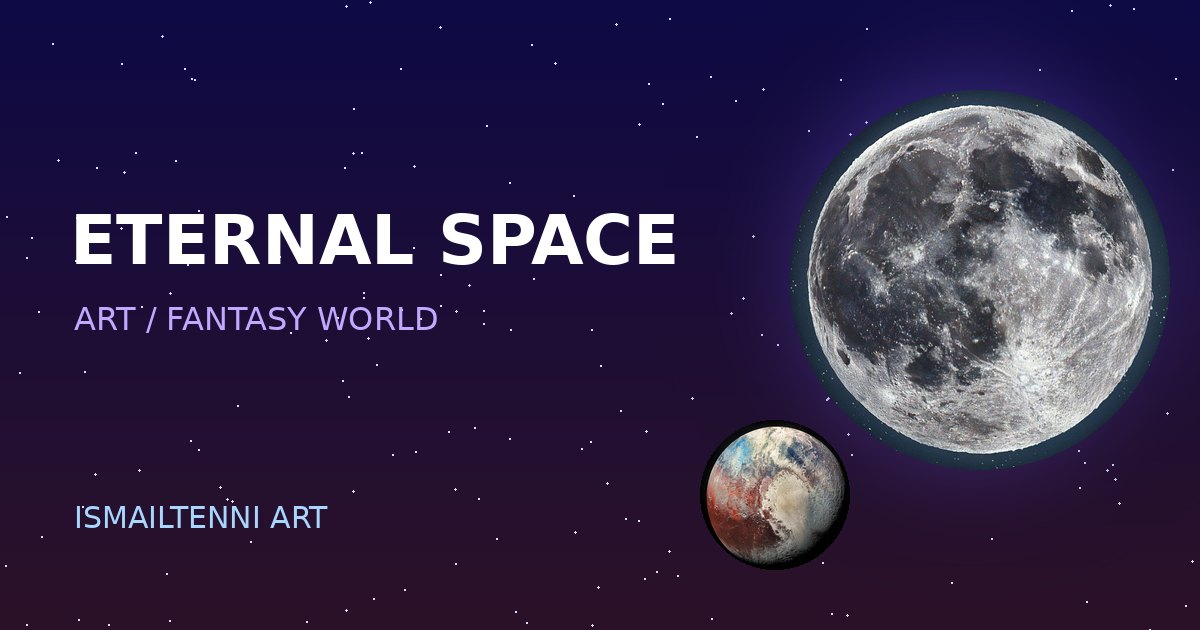
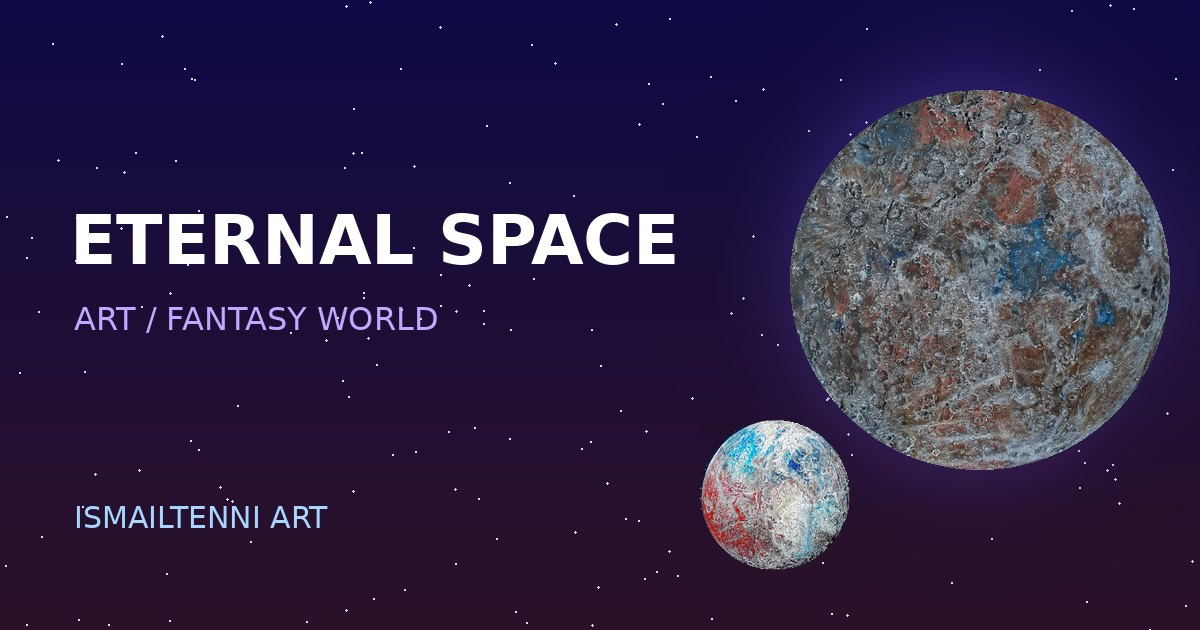
Add files via upload

Changed region(s): [[0.6475, 0.1206, 0.9867, 0.754], [0.5858, 0.6635, 0.7092, 0.9048]]

diff --git a/ARTSITE/public/index.html b/ARTSITE/public/index.html
@@ -44,6 +44,8 @@ a:hover{color:#ffffff}
 
 
 /* more4 */
+@keyframes moonDrift{from{transform:translate(-3%,-2%) rotate(-5deg)}to{transform:translate(3%,2%) rotate(5deg)}}@keyframes glowPulse{from{box-shadow:0 0 60px rgba(110,140,255,.42),0 0 150px rgba(150,70,255,.28)}to{box-shadow:0 0 90px rgba(120,160,255,.7),0 0 210px rgba(160,80,255,.5)}}
+@media (max-width:480px){#top h1{font-size:clamp(26px,8.2vw,34px)!important;letter-spacing:.09em!important;white-space:nowrap}}
 @media (pointer:coarse){header nav a,footer a,#lang button{padding-block:12px}#lang button{min-width:40px}header nav a,footer a{display:inline-block}}
 a:focus-visible,button:focus-visible,input:focus-visible,select:focus-visible,textarea:focus-visible{outline:2px solid #a8d6ff;outline-offset:3px}
 
@@ -286,14 +288,14 @@ header nav>a:not([style]):hover::after{transform:scaleX(1)}
 <div class="mv" style="position: absolute; top: 3900px; left: -150px; animation: rockA 35s linear -22s infinite"><img class="mv" src="assets/a6109552bb8845f49489881939289756.webp" alt="" style="display: block; width: 100px; height: auto; filter: drop-shadow(0 0 14px rgba(140,150,255,0.45)); animation: spin 50s linear infinite"></div>
 
 
-<div class="mv" style="position: absolute; top: 130px; right: clamp(-60px, 3vw, 70px); width: clamp(170px, 27vw, 420px); aspect-ratio: 1 / 1; border-radius: 50%; box-shadow: 0 0 70px rgba(110,140,255,0.5), 0 0 170px rgba(150,70,255,0.35); animation: floatY 9s ease-in-out infinite alternate">
-<div style="width: 100%; height: 100%; border-radius: 50%; overflow: hidden; isolation: isolate; transform: translateZ(0); background: #000">
-<img class="mv" src="assets/d97c2e76c1883fa920ea01d73709d95e.jpg" alt="Moon" style="display: block; width: 111%; height: 111%; margin: -5.5%; object-fit: cover; animation: spin 40s linear infinite">
-<div style="position: absolute; top: 0; left: 0; width: 100%; height: 100%; border-radius: 50%; background: radial-gradient(circle at 30% 28%, rgba(255,255,255,0.22) 0, rgba(255,255,255,0) 32%), radial-gradient(circle at 50% 50%, rgba(0,0,12,0) 52%, rgba(2,3,20,0.55) 78%, rgba(2,3,20,0.95) 100%); box-shadow: inset -26px -20px 50px rgba(2,2,20,0.85), inset 6px 6px 22px rgba(190,205,255,0.25)"></div>
+<div class="mv" style="position: absolute; top: 120px; left: clamp(-70px, -2vw, 0px); width: clamp(160px, 23vw, 360px); aspect-ratio: 1 / 1; border-radius: 50%; box-shadow: 0 0 70px rgba(110,140,255,0.5), 0 0 170px rgba(150,70,255,0.35); animation: floatY 9s ease-in-out infinite alternate, glowPulse 6s ease-in-out infinite alternate">
+<div style="width: 100%; height: 100%; border-radius: 50%; overflow: hidden; isolation: isolate; transform: translateZ(0); background: transparent">
+<img class="mv" src="assets/495f40647af3f36590617f0838aad3cc.jpg" alt="Moon, colored pencil drawing by Ismail Tenni" style="display: block; width: 112%; height: 112%; margin: -6%; object-fit: cover; animation: moonDrift 40s ease-in-out infinite alternate">
+<div style="position: absolute; top: 0; left: 0; width: 100%; height: 100%; border-radius: 50%; pointer-events: none; background: radial-gradient(circle at 30% 28%, rgba(255,255,255,0.16) 0, rgba(255,255,255,0) 34%)"></div>
 </div>
 </div>
 
-<div style="position: absolute; top: 700px; left: clamp(40px, 8vw, 120px); width: clamp(120px, 15vw, 230px); aspect-ratio: 1 / 1">
+<div style="position: absolute; top: 700px; right: clamp(40px, 8vw, 120px); width: clamp(120px, 15vw, 230px); aspect-ratio: 1 / 1">
 <div class="mv" style="position: absolute; top: 0; left: 0; width: 100%; height: 100%; border-radius: 50%; box-shadow: 0 0 50px rgba(130,150,255,0.4), 0 0 130px rgba(160,70,255,0.32); animation: floatY 12s ease-in-out infinite alternate-reverse">
 <div style="width: 100%; height: 100%; border-radius: 50%; overflow: hidden; isolation: isolate; transform: translateZ(0); background: #000">
 <img class="mv" src="assets/1ee5693540621d5ce3af77afbe5fe9a6.jpg" alt="Pluto" style="display: block; width: 111%; height: 111%; margin: -5.5%; object-fit: cover; animation: spin 24s linear infinite">
@@ -828,7 +830,7 @@ function init(){
   bar2.appendChild(h('button',{type:'button',style:BTN,text:'Done',on:{click:function(){liveOff()}}}));
   d.body.appendChild(bar2);
   var css=d.createElement('style');
-  css.textContent='body.ed-on [data-t]:hover,body.ed-on [data-x]:hover,body.ed-on [data-y]:hover,body.ed-on [data-z]:hover{outline:2px dashed #b79cff;outline-offset:3px;cursor:text}body.ed-on img:hover{outline:3px dashed #7be0a6;outline-offset:-3px;cursor:pointer}body.ed-on #intro,body.ed-on #fxglow{display:none}';
+  css.textContent='body.ed-on [data-t]:hover,body.ed-on [data-x]:hover,body.ed-on [data-y]:hover,body.ed-on [data-z]:hover{outline:2px dashed #b79cff;outline-offset:3px;cursor:text}body.ed-on #story .mx-card:hover,body.ed-on #about .bob:hover,body.ed-on #story .mx-ph:hover,body.ed-on #story .ab-vid:hover{outline:2px dashed #7be0a6;outline-offset:3px;cursor:pointer}body.ed-on img:hover{outline:3px dashed #7be0a6;outline-offset:-3px;cursor:pointer}body.ed-on #intro,body.ed-on #fxglow{display:none}';
   d.head.appendChild(css);
   var pop=null;
   function pickBA(key){
@@ -837,10 +839,10 @@ function init(){
       var f=inp.files&&inp.files[0];inp.remove();if(!f)return;
       tmsg('Uploading ... please wait');busy++;
       shrink(f,1400).then(function(b64){return post('/api/admin/upload',{mime:'image/jpeg',data:b64})}).then(function(r){
-        busy--;data.ba[key]=r.url;var ba=d.getElementById('ba');
+        busy=Math.max(0,busy-1);data.ba[key]=r.url;var ba=d.getElementById('ba');
         if(ba){var L=ba.querySelector(key==='before'?'.L1':'.L2');if(L)L.style.backgroundImage='url("'+r.url+'")'}
         tmsg((key==='before'?'Sketch':'Finished')+' photo added. Press "Save and publish" when you are done.');
-      }).catch(function(e){busy--;tmsg('Problem: '+e.message)});
+      }).catch(function(e){busy=Math.max(0,busy-1);tmsg('Problem: '+e.message)});
     });
     inp.click();
   }
@@ -874,6 +876,45 @@ function init(){
         h('button',{type:'button',style:BTNR,text:'Back to original',on:{click:function(){if(data.texts[k]){delete data.texts[k][lang];if(!Object.keys(data.texts[k]).length)delete data.texts[k]}closePop();tmsg('Original text comes back after you press "Save and publish".')}}})])]);
     d.body.appendChild(pop);ta.focus();
   }
+
+  function pickUpload(max,cb){
+    var inp=h('input',{type:'file',accept:'image/*',style:'display:none'});d.body.appendChild(inp);
+    inp.addEventListener('change',function(){
+      var f=inp.files&&inp.files[0];inp.remove();if(!f)return;
+      tmsg('Uploading ... please wait');busy++;
+      shrink(f,max).then(function(b64){return post('/api/admin/upload',{mime:'image/jpeg',data:b64})}).then(function(r){busy=Math.max(0,busy-1);try{cb(r.url)}catch(e){tmsg('Problem: '+e.message);console.error(e)}},function(e){busy=Math.max(0,busy-1);tmsg('Problem: '+e.message)});
+    });
+    inp.click();
+  }
+  function syncAbout(){w.C=w.C||{};w.C.about=JSON.parse(JSON.stringify(data.about));if(w.__renderAbout)w.__renderAbout()}
+  function aboutDialog(title,fields,note){
+    closePop();
+    var cp=JSON.parse(JSON.stringify(data.about));
+    var wrap=h('div',{style:'max-height:70vh;overflow:auto'});
+    function build(){
+      wrap.innerHTML='';
+      fields.forEach(function(f){
+        if(f.t==='img'){
+          var row=h('div',{style:'display:flex;gap:10px;align-items:center;flex-wrap:wrap;margin:10px 0'});
+          if(cp[f.k])row.appendChild(thumb(cp[f.k],64));
+          row.appendChild(h('button',{type:'button',style:BTN2,text:cp[f.k]?'Change photo':'+ Add photo',on:{click:function(){pickUpload(f.max||1400,function(u){cp[f.k]=u;build();tmsg('Photo added. Press OK.')})}}}));
+          if(cp[f.k])row.appendChild(h('button',{type:'button',style:BTNR,text:'Remove',on:{click:function(){delete cp[f.k];build()}}}));
+          wrap.appendChild(h('label',{style:LAB,text:f.l}));wrap.appendChild(row);
+        }else{
+          var i=h(f.t==='area'?'textarea':'input',f.t==='area'?{style:INP+';min-height:110px',placeholder:f.p||''}:{type:'text',style:INP,placeholder:f.p||''});
+          i.value=cp[f.k]||'';i.addEventListener('input',function(){cp[f.k]=i.value});
+          wrap.appendChild(h('label',{style:LAB,text:f.l}));wrap.appendChild(i);
+        }
+      });
+    }
+    build();
+    pop=h('div',{id:'ed-pop',style:'position:fixed;left:50%;top:70px;translate:-50% 0;width:min(560px,92vw);z-index:3200;padding:16px;border-radius:16px;background:#0b1030;border:1px solid rgba(190,170,255,.6);box-shadow:0 20px 60px #000;color:#fff;font-family:Inter,system-ui,sans-serif'},[
+      h('div',{style:'font-size:18px;margin-bottom:6px',text:title}),note?h('div',{style:'font-size:13px;color:#9fb0c8;margin-bottom:6px',text:note}):'',wrap,
+      h('div',{style:'display:flex;gap:10px;margin-top:12px'},[
+        h('button',{type:'button',style:BTNG,text:'OK',on:{click:function(){data.about=cp;syncAbout();closePop();tmsg('Changed. Press "Save and publish" when you are done.')}}}),
+        h('button',{type:'button',style:BTN,text:'Cancel',on:{click:closePop}})])]);
+    d.body.appendChild(pop);
+  }
   function origName(src){var m=/([a-f0-9]{32}\.(?:png|jpg|webp))/.exec(src||'');return m?m[1]:null}
   function editImg(im){
     closePop();
@@ -884,10 +925,10 @@ function init(){
       if(!name){tmsg('This picture is part of your artwork list. Use the "✎ Edit my site" button and the Artwork, Photos or Page parts tab.');return}
       tmsg('Uploading ... please wait');busy++;
       shrink(f,1800).then(function(b64){return post('/api/admin/upload',{mime:'image/jpeg',data:b64})}).then(function(r){
-        busy--;data.imgs[name]=r.url;if(w.__swapImgs){var o={};o[name]=r.url;w.__swapImgs(o)}
+        busy=Math.max(0,busy-1);data.imgs[name]=r.url;if(w.__swapImgs){var o={};o[name]=r.url;w.__swapImgs(o)}
         [].forEach.call(d.querySelectorAll('img'),function(x){if((x.getAttribute('src')||'').indexOf(r.url)>-1&&!x.getAttribute('data-ed-orig'))x.setAttribute('data-ed-orig',name)});
         tmsg('Picture changed. Press "Save and publish" when you are done.');
-      }).catch(function(e){busy--;tmsg('Problem: '+e.message)});
+      }).catch(function(e){busy=Math.max(0,busy-1);tmsg('Problem: '+e.message)});
     });
     inp.click();
   }
@@ -895,6 +936,12 @@ function init(){
     if(!d.body.classList.contains('ed-on'))return;
     var t=e.target;if(t.tagName==='INPUT'||(t.closest&&(t.closest('#ed-bar')||t.closest('#ed-ba-bar')||t.closest('#ed-pop')||t.closest('#ed')||t.closest('#lang'))))return;
     e.preventDefault();e.stopPropagation();
+    var stC=t.closest&&t.closest('#story .mx-card');
+    if(stC&&!(t.closest('.t'))){var ix=[].indexOf.call(stC.parentNode.querySelectorAll('.mx-card'),stC)+1;
+      aboutDialog('Story card '+ix,[{k:'t'+ix,l:'Text',t:'area',p:'Write your story here ...'},{k:'p'+ix,l:'Photo',t:'img',max:1400}],'Write in one language. Visitors see this text in every language.');return}
+    if(t.closest&&t.closest('#story .mx-ph,#story .ab-vid')){aboutDialog('Story video',[{k:'vurl',l:'Video link (YouTube, Vimeo or .mp4)',p:'https://youtu.be/...'},{k:'poster',l:'Photo for the video box',t:'img',max:1600}],'The video shows after you press "Save and publish".');return}
+    var pf=t.closest&&t.closest('#about .bob');
+    if(pf&&!t.closest('#story')){pickUpload(1400,function(u){data.about.portrait=u;syncAbout();tmsg('Portrait added. Press "Save and publish" when you are done.')});return}
     var el=t.closest&&t.closest('[data-t],[data-x],[data-y],[data-z]');
     if(el&&keyOf(el)){editText(el);return}
     var baEl=t.closest&&t.closest('#ba');
@@ -939,11 +986,11 @@ function init(){
     var list=Array.prototype.slice.call(files||[]);if(!list.length)return;
     busy++;var n=0;
     (function next(){
-      if(!list.length){busy--;say(n+' photo(s) added. Press "Save and publish" when you are ready.');render();return}
+      if(!list.length){busy=Math.max(0,busy-1);say(n+' photo(s) added. Press "Save and publish" when you are ready.');render();return}
       var f=list.shift();say('Uploading '+(n+1)+' ... please wait');
       shrink(f,max).then(function(b64){return post('/api/admin/upload',{mime:'image/jpeg',data:b64})})
         .then(function(r){n++;done(r.url,f.name.replace(/\.[^.]+$/,''));next()})
-        .catch(function(e){busy--;say('Problem: '+e.message);render()});
+        .catch(function(e){busy=Math.max(0,busy-1);say('Problem: '+e.message);render()});
     })();
   }
   function fileInput(multi,cb,label){
@@ -1176,6 +1223,15 @@ function init(){
     box.appendChild(img1(data.ba,'after','Finished (after)',1400));
     box.appendChild(sub('About: my portrait'));
     box.appendChild(img1(data.about,'portrait','My portrait',1400));
+    [['1','Why I draw'],['2','How I started'],['3','What inspires me']].forEach(function(c){
+      box.appendChild(sub('My story: '+c[1]));
+      box.appendChild(field1(data.about,'t'+c[0],'Text','Write your story here ...',true));
+      box.appendChild(img1(data.about,'p'+c[0],'Photo for this card',1400));
+    });
+    box.appendChild(sub('My story: video'));
+    box.appendChild(note1('Paste a YouTube or Vimeo link (or a direct .mp4 link). Or add only a photo.'));
+    box.appendChild(field1(data.about,'vurl','Video link','https://youtu.be/...'));
+    box.appendChild(img1(data.about,'poster','Photo for the video box',1600));
     box.appendChild(sub('Behind the art'));
     box.appendChild(listEd(data.behind,[{k:'photo',l:'Photo',t:'img',max:1200},{k:'caption',l:'Short caption (optional)'}],'+ Add photo'));
     box.appendChild(sub('Free wallpapers'));
@@ -1648,10 +1704,23 @@ function renderBA(){
   if(ok(C.ba.after))ba.querySelector('.L2').style.backgroundImage='url("'+C.ba.after+'")';
 }
 function renderAbout(){
-  if(!C.about||!ok(C.about.portrait))return;
-  var s=d.getElementById('about');if(!s)return;var f=s.querySelector('div.bob');
-  if(f&&/portrait/i.test(f.textContent)&&!f.querySelector('img')){f.textContent='';f.style.padding='0';f.style.overflow='hidden';f.style.border='1px solid rgba(190,170,255,.4)';f.appendChild(img(C.about.portrait,'Portrait'))}
+  var A=C.about||{};var s=d.getElementById('about');if(!s)return;
+  if(ok(A.portrait)){var f=s.querySelector('div.bob');if(f&&!f.closest('#story')){f.textContent='';f.style.padding='0';f.style.overflow='hidden';f.style.border='1px solid rgba(190,170,255,.4)';f.appendChild(img(A.portrait,'Portrait'))}}
+  var st=d.getElementById('story');if(!st)return;
+  var cards=st.querySelectorAll('.mx-card');
+  [1,2,3].forEach(function(i){var c=cards[i-1];if(!c)return;
+    var t=A['t'+i],p=A['p'+i];
+    if(t){var dd=c.querySelector('.d');if(dd){dd.textContent=t;dd.style.whiteSpace='pre-line'}}
+    [].forEach.call(c.querySelectorAll('.ab-ph'),function(x){x.remove()});
+    if(ok(p))c.insertBefore(el('div',{'class':'ab-ph',style:'aspect-ratio:4/3;border-radius:12px;overflow:hidden;background:#07091a'},[img(p,'')]),c.firstChild);
+  });
+  var vb=st.querySelector('.mx-ph,.ab-vid'),V=A.video,box=null;
+  if(V&&(V.embed||V.file))box=V.embed?el('iframe',{src:V.embed,title:'Video',allow:'fullscreen; picture-in-picture',allowfullscreen:'',loading:'lazy',style:'display:block;width:100%;aspect-ratio:16/9;border:1px solid rgba(190,170,255,.35);border-radius:20px;background:#000'}):el('video',{controls:'',playsinline:'',preload:'metadata',src:V.file,poster:ok(A.poster)?A.poster:'',style:'display:block;width:100%;border-radius:20px;background:#000;border:1px solid rgba(190,170,255,.35)'});
+  else if(V&&V.url)box=btnA(V.url,'Watch','v');
+  else if(ok(A.poster))box=el('div',{style:'aspect-ratio:16/9;border-radius:20px;overflow:hidden;border:1px solid rgba(190,170,255,.35);background:#07091a'},[img(A.poster,'')]);
+  if(vb&&box){var w2=el('div',{'class':'ab-vid',style:'grid-column:1/-1'},[box]);vb.parentNode.replaceChild(w2,vb)}
 }
+w.__renderAbout=renderAbout;
 /* static labels in the new sections */
 function labels(){
   var x=Z[L()]||{};
@@ -1887,7 +1956,7 @@ function hashStr(s){var h=2166136261;for(var i=0;i<s.length;i++){h^=s.charCodeAt
 function renderCard(){
   var s=d.getElementById('card');if(!s)return;var box=s.querySelector('.cd-box');if(box.getAttribute('data-ready'))return;box.setAttribute('data-ready','1');
   var nm=el('input',{type:'text',maxlength:'30',placeholder:T('cd_name'),'aria-label':T('cd_name'),style:'max-width:360px'});
-  var pl=el('select',{'aria-label':'Planet',style:'max-width:360px'},[el('option',{value:'d97c2e76c1883fa920ea01d73709d95e.jpg','data-z':'cd_moon',text:T('cd_moon')}),el('option',{value:'1ee5693540621d5ce3af77afbe5fe9a6.jpg','data-z':'cd_pluto',text:T('cd_pluto')})]);
+  var pl=el('select',{'aria-label':'Planet',style:'max-width:360px'},[el('option',{value:'495f40647af3f36590617f0838aad3cc.jpg','data-z':'cd_moon',text:T('cd_moon')}),el('option',{value:'1ee5693540621d5ce3af77afbe5fe9a6.jpg','data-z':'cd_pluto',text:T('cd_pluto')})]);
   var mk=el('button',{type:'button','class':'mx-btn v'},[el('span',{'data-z':'cd_make',text:T('cd_make')})]);
   var cv=el('canvas',{width:'1080',height:'1920',style:'display:none;width:100%;max-width:300px;aspect-ratio:9/16;border-radius:18px;border:1px solid rgba(190,170,255,.45);box-shadow:0 0 50px rgba(110,90,255,.35)',role:'img'});
   var dl=el('button',{type:'button','class':'mx-btn',style:'display:none'},[el('span',{'data-z':'cd_dl',text:T('cd_dl')})]);

diff --git a/ARTSITE/public/404.html b/ARTSITE/public/404.html
@@ -4,7 +4,7 @@
 <style>
 *{box-sizing:border-box}html,body{margin:0;min-height:100%}
 body{background:radial-gradient(ellipse at 50% 20%,#1b1442,#070b1c 60%,#03040e);color:#fff;font-family:Inter,system-ui,-apple-system,Segoe UI,Roboto,sans-serif;display:flex;flex-direction:column;align-items:center;padding:24px 16px 40px;overflow-x:hidden}
-.moon{position:fixed;right:-90px;top:-70px;width:300px;height:300px;border-radius:50%;background:url(/assets/d97c2e76c1883fa920ea01d73709d95e.jpg) center/cover;opacity:.55;animation:sp 120s linear infinite;pointer-events:none}
+.moon{position:fixed;right:-90px;top:-70px;width:300px;height:300px;border-radius:50%;background:url(/assets/495f40647af3f36590617f0838aad3cc.jpg) center/cover;opacity:.55;animation:sp 120s linear infinite;pointer-events:none}
 .pluto{position:fixed;left:-60px;bottom:-60px;width:200px;height:200px;border-radius:50%;background:url(/assets/1ee5693540621d5ce3af77afbe5fe9a6.jpg) center/cover;opacity:.5;animation:sp 90s linear infinite reverse;pointer-events:none}
 @keyframes sp{to{transform:rotate(360deg)}}
 a.back{align-self:flex-start;color:#d6ccff;text-decoration:none;border:1px solid rgba(255,255,255,.35);border-radius:999px;padding:10px 20px;background:rgba(10,18,40,.6);position:relative;z-index:2}

diff --git a/ARTSITE/public/play/index.html b/ARTSITE/public/play/index.html
@@ -4,7 +4,7 @@
 <style>
 *{box-sizing:border-box}html,body{margin:0;min-height:100%}
 body{background:radial-gradient(ellipse at 50% 20%,#1b1442,#070b1c 60%,#03040e);color:#fff;font-family:Inter,system-ui,-apple-system,Segoe UI,Roboto,sans-serif;display:flex;flex-direction:column;align-items:center;padding:24px 16px 40px;overflow-x:hidden}
-.moon{position:fixed;right:-90px;top:-70px;width:300px;height:300px;border-radius:50%;background:url(/assets/d97c2e76c1883fa920ea01d73709d95e.jpg) center/cover;opacity:.55;animation:sp 120s linear infinite;pointer-events:none}
+.moon{position:fixed;right:-90px;top:-70px;width:300px;height:300px;border-radius:50%;background:url(/assets/495f40647af3f36590617f0838aad3cc.jpg) center/cover;opacity:.55;animation:sp 120s linear infinite;pointer-events:none}
 .pluto{position:fixed;left:-60px;bottom:-60px;width:200px;height:200px;border-radius:50%;background:url(/assets/1ee5693540621d5ce3af77afbe5fe9a6.jpg) center/cover;opacity:.5;animation:sp 90s linear infinite reverse;pointer-events:none}
 @keyframes sp{to{transform:rotate(360deg)}}
 a.back{align-self:flex-start;color:#d6ccff;text-decoration:none;border:1px solid rgba(255,255,255,.35);border-radius:999px;padding:10px 20px;background:rgba(10,18,40,.6);position:relative;z-index:2}

diff --git a/ARTSITE/_worker.js b/ARTSITE/_worker.js
@@ -97,7 +97,7 @@ const SCH = {
   wallpapers: { photo: 'img', title: 's80' },
   spotlight: { on: 's3', title: 's100', text: 's800', image: 'img', price: 's40', pay: 'url' },
   ba: { before: 'img', after: 'img', caption: 's100' },
-  about: { portrait: 'img' },
+  about: { portrait: 'img', t1: 's700', t2: 's700', t3: 's700', p1: 'img', p2: 'img', p3: 'img', poster: 'img', vurl: 's300' },
   settings: { payDefault: 'url', payLabel: 's30' },
   posts: { title: 's100', text: 's6000', image: 'img', date: 's10' },
   challenge: { on: 's3', title: 's100', text: 's800', prize: 's100', deadline: 's10' },
@@ -158,7 +158,7 @@ function cleanContent(b) {
     timelapse: (Array.isArray(b.timelapse) ? b.timelapse : []).slice(0, 20).map(cleanFilm).filter(Boolean),
     spotlight: cleanRow(b.spotlight, SCH.spotlight),
     ba: cleanRow(b.ba, SCH.ba),
-    about: cleanRow(b.about, SCH.about),
+    about: (() => { const a = cleanRow(b.about, SCH.about); const v = cleanFilm({ url: a.vurl }); if (v) a.video = v; return a; })(),
     settings: cleanRow(b.settings, SCH.settings),
     posts: cleanList(b.posts, SCH.posts, 80, ['title']),
     challenge: cleanRow(b.challenge, SCH.challenge),
